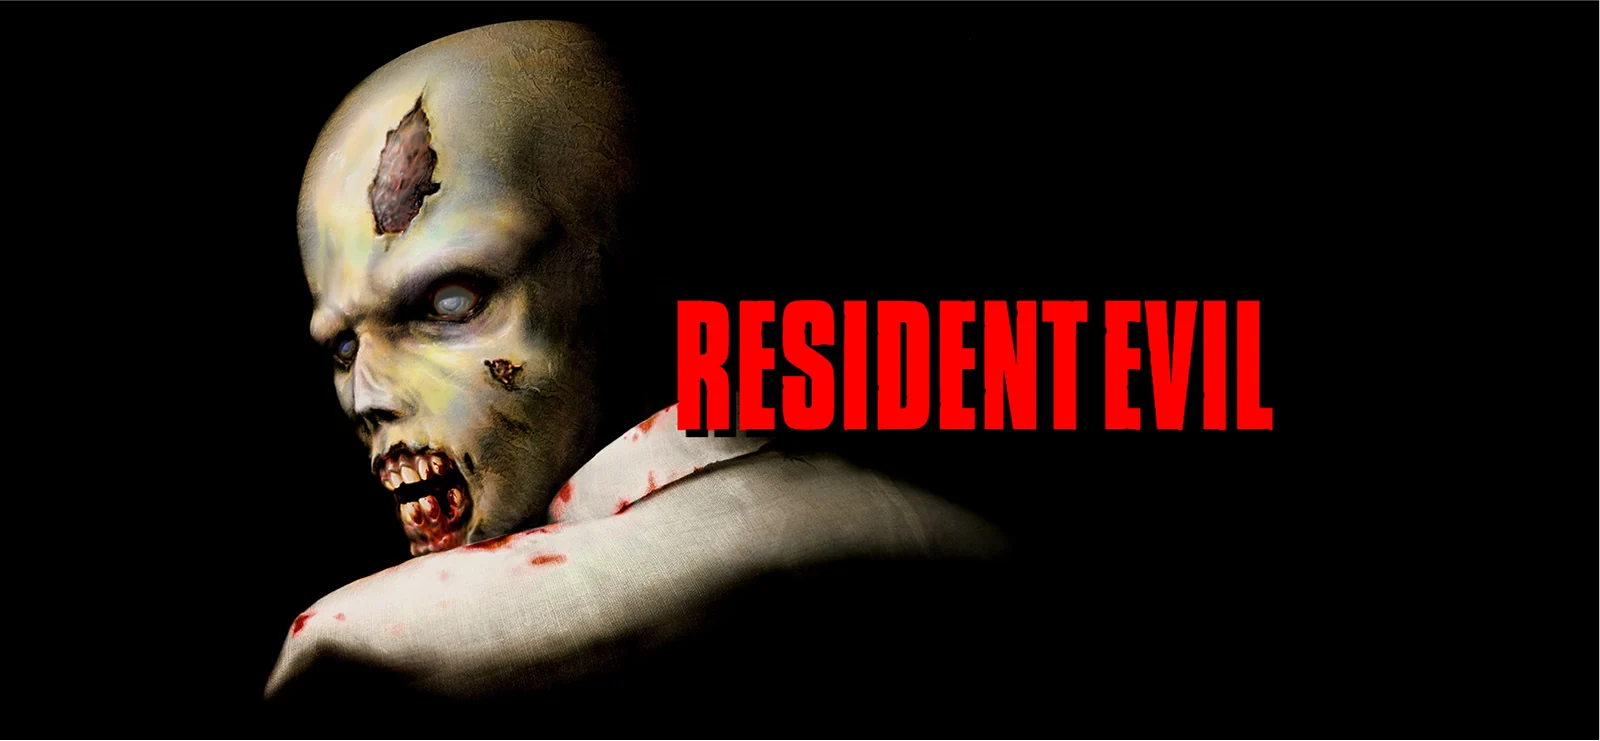
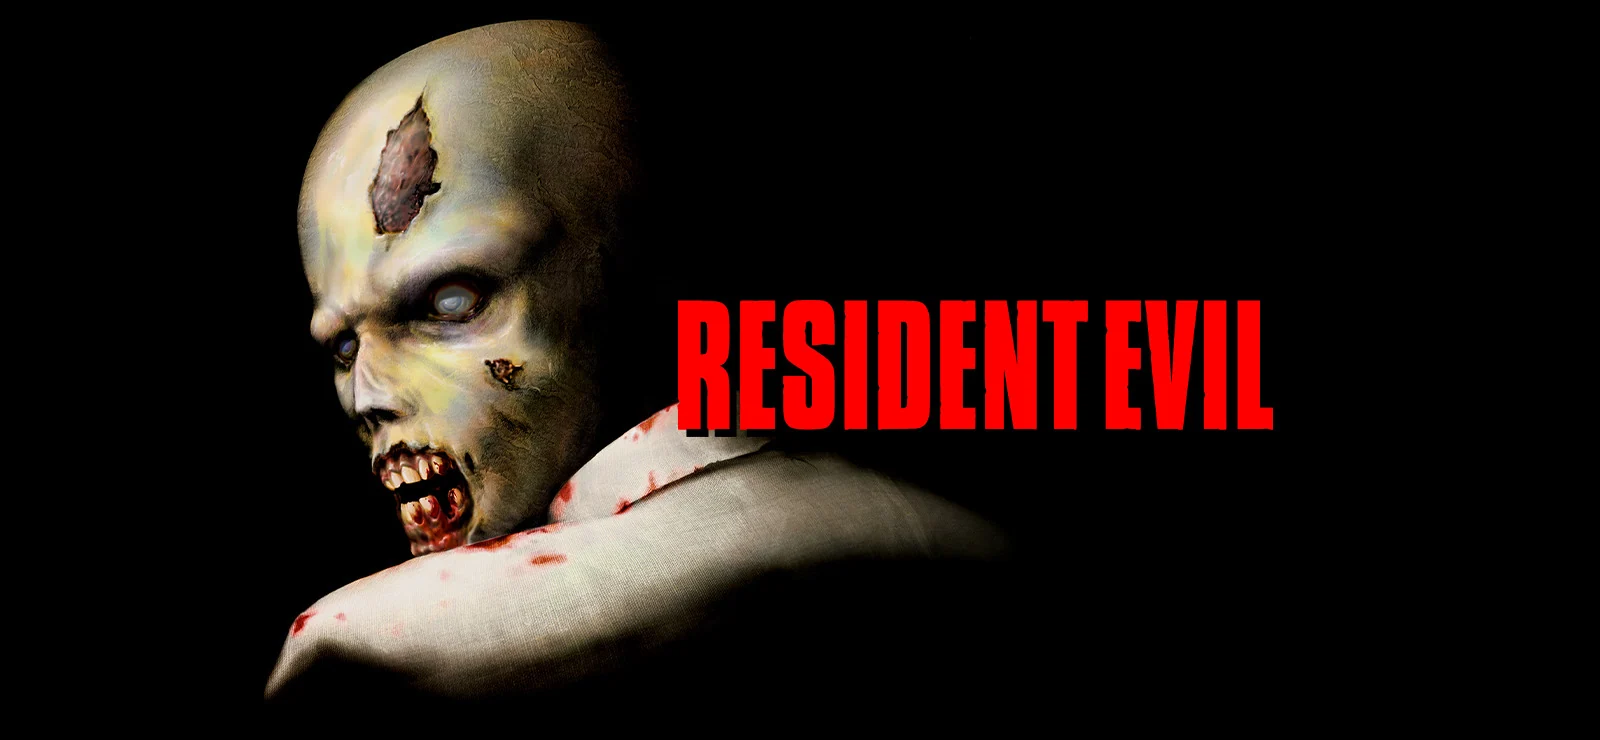
fix(assets): source the hero art from the design export, not media/
Item (1) of this round of work was "switch the hero/region art to the design export's own lane
assets". The lanes were done; the heroes were not, and the two are not the same correction.

Six of the eight hero rows turned out to be the *same image* as the `media/` file they were
coming from - a 16x16 greyscale fingerprint puts them 0.04 to 0.7 out of 255 apart - so
re-pointing them changes nothing on screen and only makes the provenance honest. That matters
because it was not honest: `designMap` in the sync tool has been writing
`designMap['352e234e...'] = 'game/hero-re1-us.webp'` all along, claiming the export's hash for a
file converted from `media/`. A comment, or a map, asserting provenance is exactly the kind of
claim that quietly stops being true.

The other two were a real correction. `re2_proto` and `re2_jp` were showing different artwork
entirely: ~24/255 apart, measured the same way. A shape check could never have found that,
because the frames' hero art and `media/`'s are both 1600x740 - which is why the new assertion in
tests/e2e/geometry.spec.ts checks the heroes' *provenance* from the generated manifest rather
than their dimensions, and why the sync tool now refuses to run at all if a `game/hero-`,
`game/lane-`, `game/logo-` or `game/card-` output is pointed at `media/`. That guard is
falsified in this change too: pointing `game/hero-re2-proto` back at the media file makes the
sync fail with the reason.
[…]

diff --git a/tests/e2e/geometry.spec.ts b/tests/e2e/geometry.spec.ts
@@ -20,6 +20,8 @@
  * `test-results/` for review, but nothing here compares pixels: geometry is the
  * assertion.
  */
+import { readFile } from 'node:fs/promises'
+import { join } from 'node:path'
 import { expect, test } from '@playwright/test'
 import type { Page, TestInfo } from '@playwright/test'
 
@@ -56,6 +58,9 @@ import {
   waitUntil
 } from './electron-app'
 import type { AppHandle } from './electron-app'
+
+/** The repository root: Playwright runs from it, which is where the manifest lives. */
+const repoRoot = process.cwd()
 
 /**
  * The one tolerance every measurement gets, in author-space pixels.
@@ -349,6 +354,25 @@ test.describe('the launcher frame matches the Figma export', () => {
       )
       expectWithin(hero.width, leftPanel.width - 2 * VERSION_SCREEN.padding.left, TOLERANCE, `version row ${index} hero width`)
     })
+
+    // And the art inside those lanes is the design's, not the previous launcher's.
+    //
+    // Asserted from the asset manifest rather than from the rendered pixels, because the
+    // frames' hero art is the same *aspect* as `media/`'s (both 1600x740), so a shape check
+    // cannot tell them apart - and for two rows they were different artwork entirely.
+    // The manifest records where every converted file came from, which is the fact worth
+    // checking: a hero must never trace back to `media/`.
+    const manifest = JSON.parse(
+      await readFile(join(repoRoot, 'src', 'renderer', 'src', 'assets', 'MANIFEST.json'), 'utf8')
+    ) as { images: { key: string; file: string; source: string }[] }
+    const heroCopies = manifest.images.filter((image) => image.key.startsWith('game/hero-'))
+    expect(heroCopies.length, 'every hero asset is recorded in the manifest').toBe(8)
+    for (const copy of heroCopies) {
+      expect(
+        copy.source.replace(/\\/g, '/'),
+        `${copy.key} must come from the design's own files, not media/`
+      ).not.toContain('/media/')
+    }
 
     // The info block: 482px, pinned to the bottom of the 860px column.
     const infoBlock = await rect(page, NODES.infoBlock)

diff --git a/docs/DESIGN-FIDELITY.md b/docs/DESIGN-FIDELITY.md
@@ -280,12 +280,27 @@ no real saving — and so are the WAV cues and the Actor font.
 | `game/backdrop-unsplash.webp` | export | 1920 wide, q88 |
 | `game/card-re{1,2,3}.webp` | export | native (342x482 portrait art), q90 |
 | `game/gameplay-re1.webp`, `game/gameplay-re3.webp` | export | native, q90 |
-| `game/hero-*.webp` (8) | `media/` | 1600 wide, q86 |
-| `game/region-*.webp` (8) | `media/` | 1068 wide, q86 |
-| `game/logo-*.webp` (8) | `media/` | native width (each already equals its design box), q92 |
+| `game/hero-*.webp` (8) | export | 1600 wide, q86 |
+| `game/lane-*.webp` (8) | export | native, or 1720 wide for the ones wider than that (§7.4) |
+| `game/logo-*.webp` (8) | `assets/textures/` | native width (each already equals its design box), q92 |
 | `video/*.mp4` (6) | `assets/videos/` | copied |
 | `audio/{confirm,back,cursor}.wav` | `assets/audio/` | copied |
 | `font/Actor-Regular.ttf` | `assets/fonts/` | copied |
+
+**Nothing the Figma frames draw comes from `media/` any more.** That folder is the previous
+launcher's own art, and two families were still being sourced from it while the generated
+`design-map.json` went on claiming the export's hashes for them: the info-panel lanes (§7.4) and
+the version-row heroes. `tools/sync-design-assets.mjs` now refuses to run if a `game/hero-`,
+`game/lane-`, `game/logo-` or `game/card-` output is pointed at `media/`, because a comment
+saying "this is the design's art" is exactly the kind of claim that quietly stops being true.
+
+The heroes are worth a note of their own. Six of the eight turned out to be the *same image* as
+the `media/` file they came from (a 16x16 greyscale fingerprint puts them ≤ 0.7/255 apart), so
+switching them changed nothing on screen and only made the provenance honest. The other two
+were a real correction: `re2_proto` and `re2_jp` were showing different artwork entirely, ~24/255
+apart. A shape check could never have caught that - the frames' hero art and `media/`'s are both
+1600x740 - which is why `tests/e2e/geometry.spec.ts` asserts the heroes' *provenance* from the
+manifest rather than their dimensions.
 
 Two generated files record what happened, and neither is hand-edited:
 
@@ -317,7 +332,7 @@ and every consumer treats that as "draw nothing" rather than as a broken image.
 | `game/backdrop-unsplash` | `game/backdrop-unsplash.webp` | every screen's `Backdrop` |
 | `game/card-re1` / `-re2` / `-re3` | `game/card-re*.webp` | main-menu covers |
 | `game/gameplay-re1` / `-re3` | `game/gameplay-re*.webp` | gameplay card still (RE1, RE3) |
-| `game/hero-re1-us` / `-re1-jp` / `-re1-dc` / `-re2-leon` / `-re2-proto` / `-re2-jp` / `-re3-us` / `-re3-jp` | `game/hero-*.webp` | version-row hero art |
+| `game/hero-re1-us` / `-re1-jp` / `-re1-dc` / `-re2-leon` / `-re2-proto` / `-re2-jp` / `-re3-us` / `-re3-jp` | `game/hero-*.webp` | version-row hero art, from the export (§7.3) |
 | `game/lane-re1-us` / `-re1-jp` / `-re1-dc` / `-re2-leon` / `-re2-proto` / `-re2-jp` / `-re3-us` / `-re3-jp` | `game/lane-*.webp` | info-panel lane art (one per row) |
 | `game/logo-re1-us` … `game/logo-re3-jp` (8) | `game/logo-*.webp` | info-panel logo box, gameplay rotated logo |
 | `video/video-re1` / `-re1-jp` / `-re2` / `-re2-jp` / `-re3` / `-re3-jp` | `video/video-*.mp4` | info-panel video window; `video/video-re2` also fills the RE2 gameplay card |
